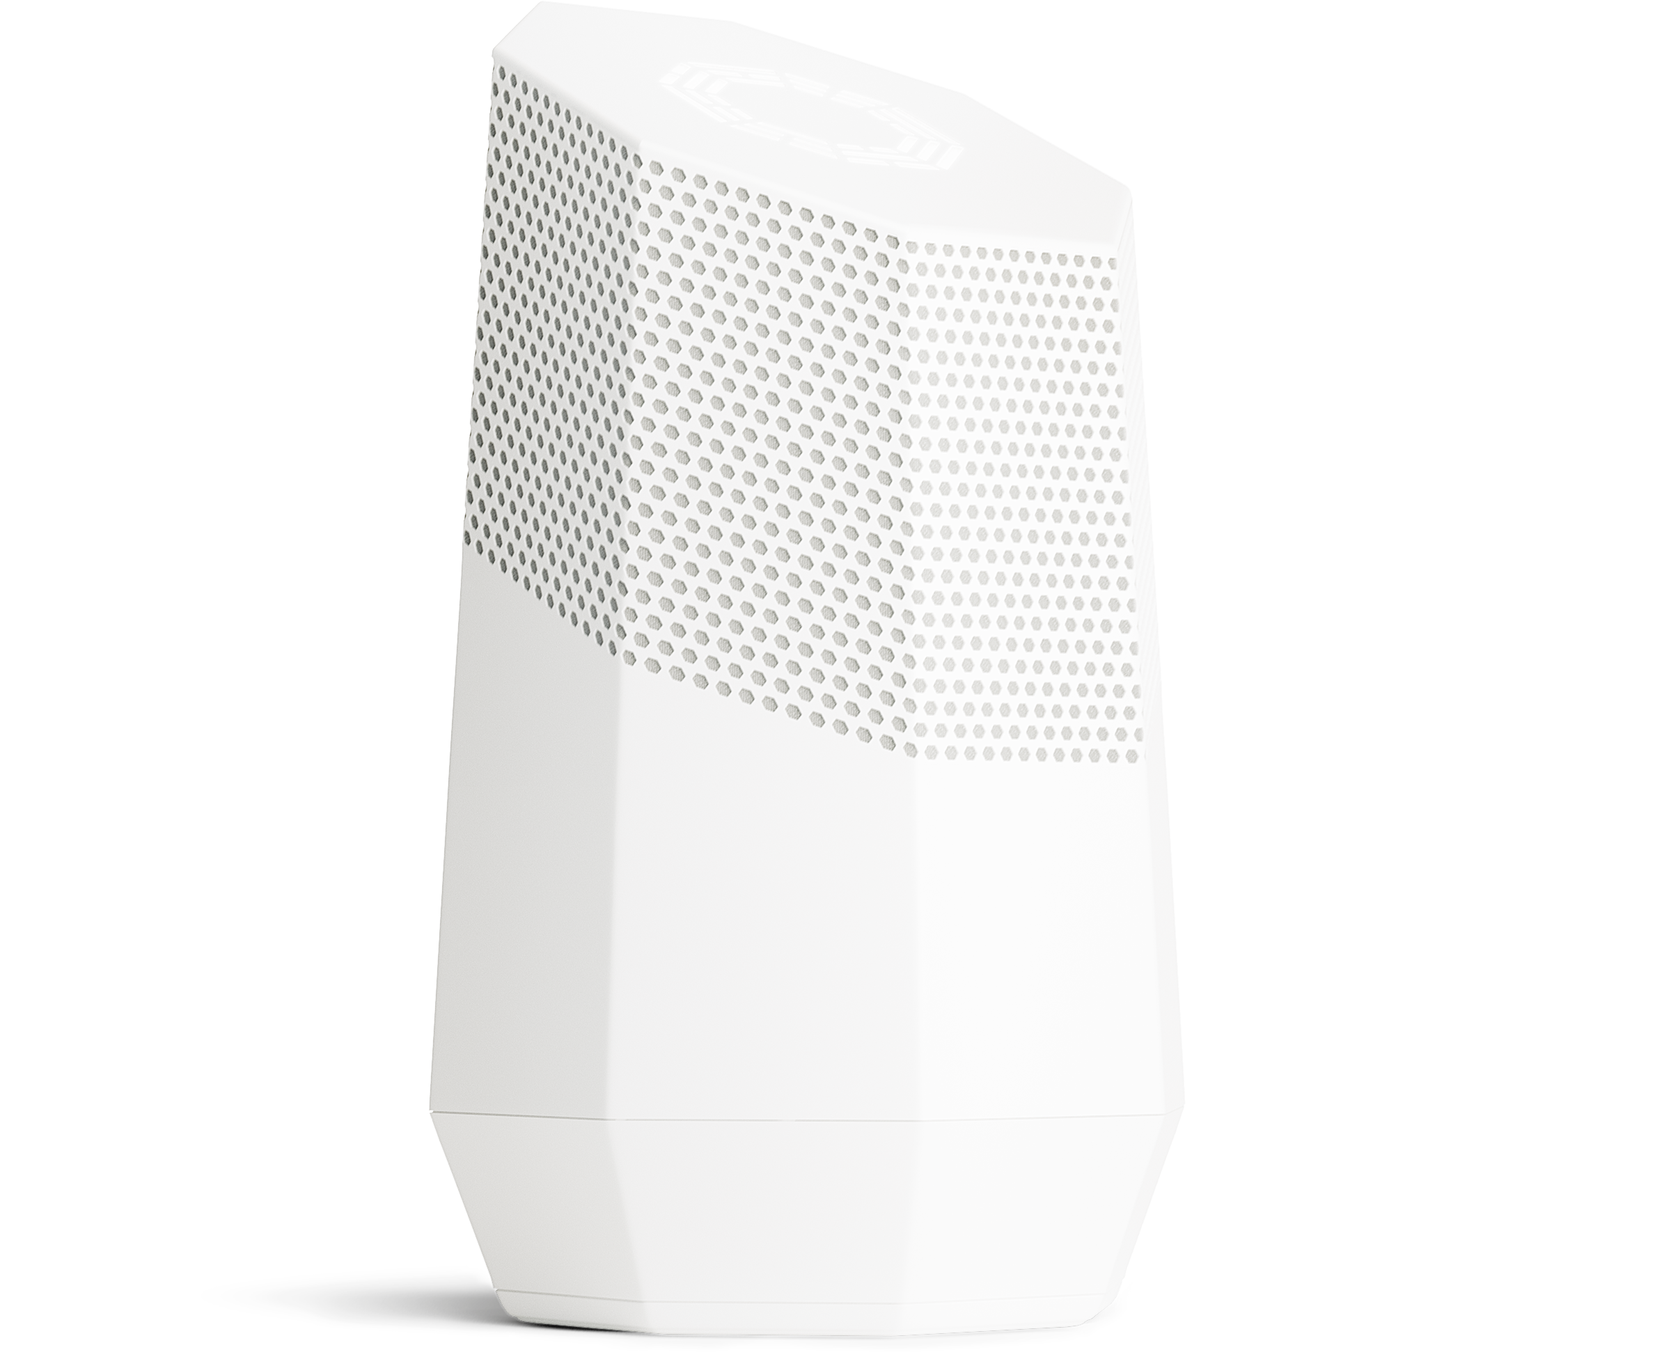
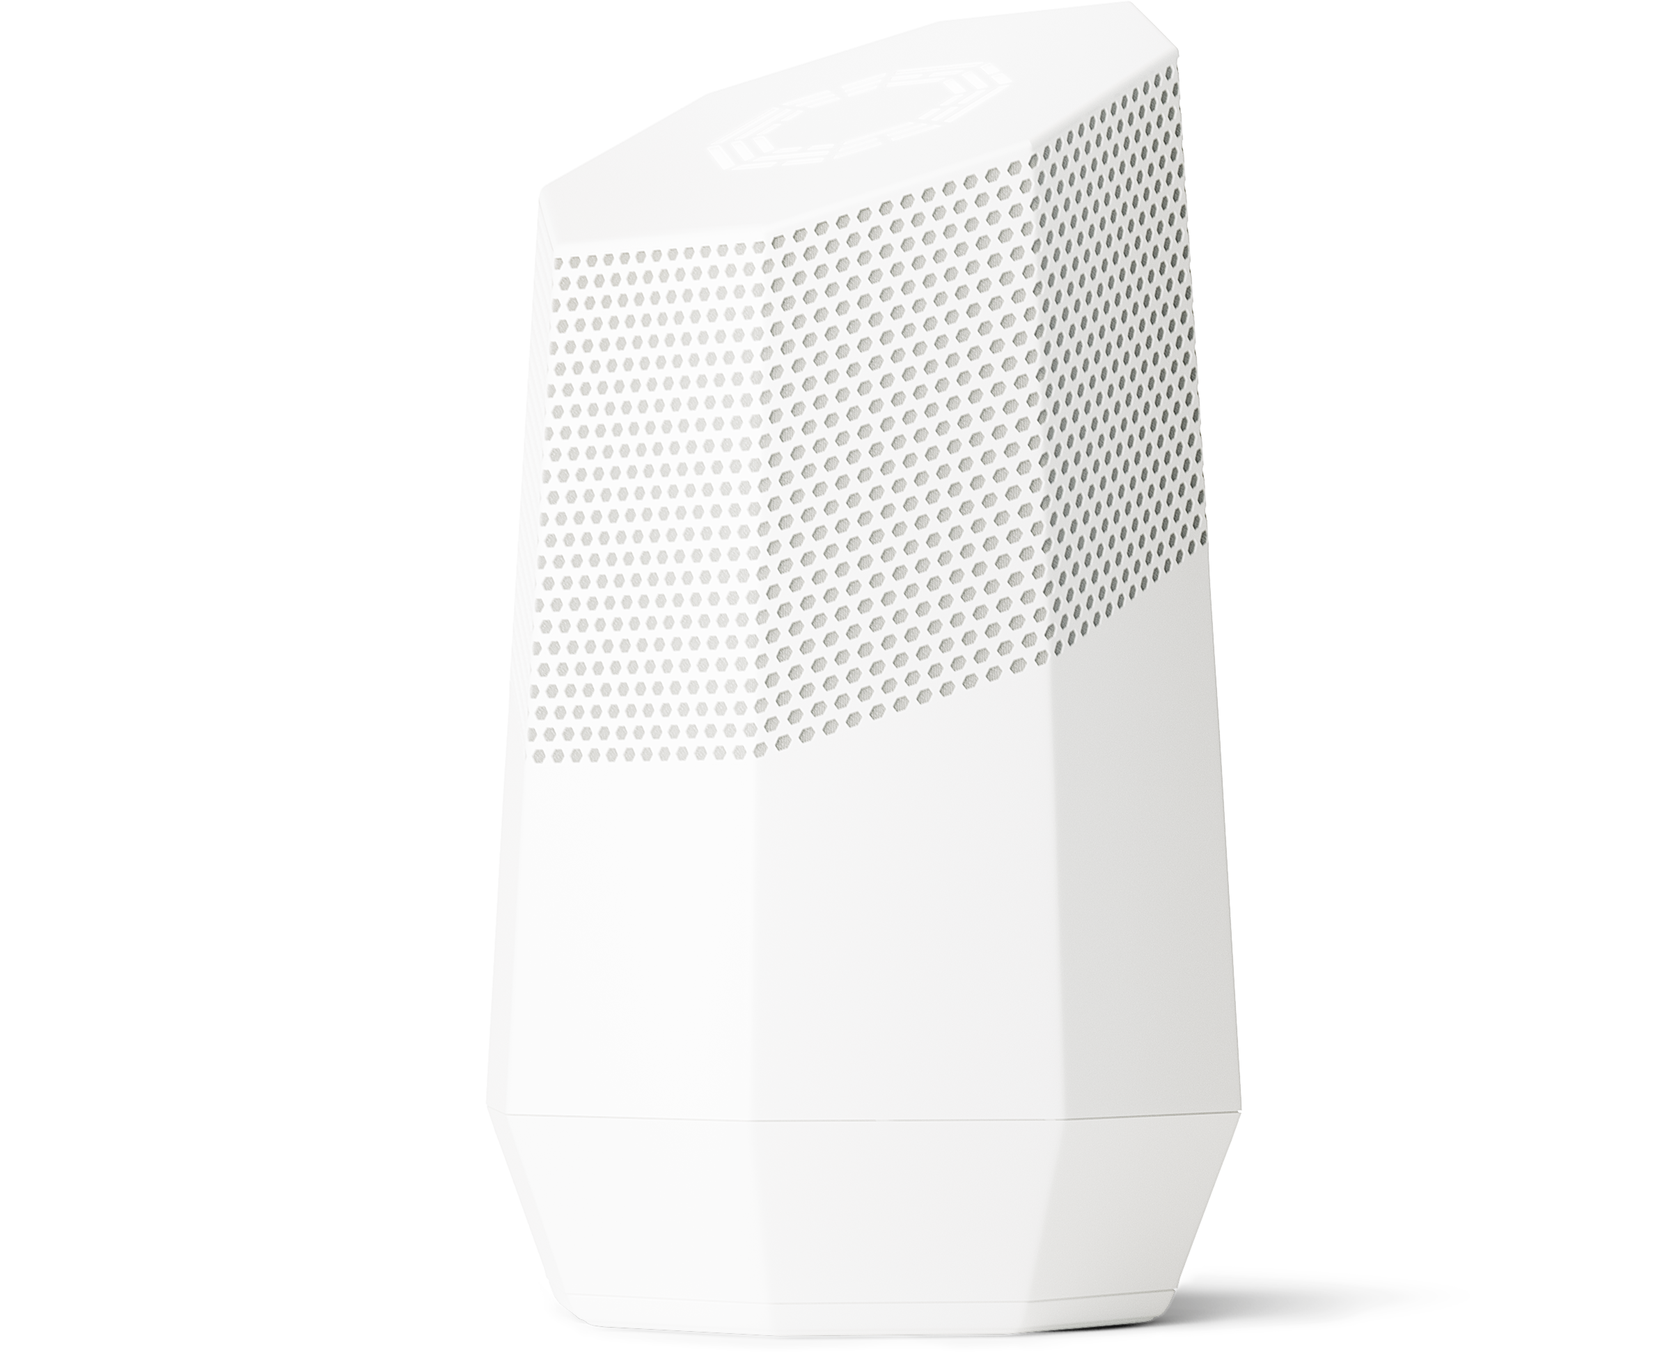
Change picture with carousel

Changed region(s): [[0.2188, 0.0312, 0.7812, 1.0]]

diff --git a/kifoundation/src/components/Device/index.jsx b/kifoundation/src/components/Device/index.jsx
@@ -1,6 +1,7 @@
 // Services
 import React from 'react';
 import PropTypes from 'prop-types';
+import Slider from "react-slick";
 
 // Material
 import Tabs from '@material-ui/core/Tabs';
@@ -19,6 +20,8 @@ import { withStyles } from '@material-ui/core/styles';
 // Images
 import KiDevice from '../../assets/ki_foundation/Black_Front.png';
 import KiDeviceSide from '../../assets/ki_foundation/Black_Side.png';
+import KiDeviceBlackBack from '../../assets/ki_foundation/Black_Back.png';
+import KiDeviceWhiteBack from '../../assets/ki_foundation/White_Back.png';
 import KiDeviceWhiteSide from '../../assets/ki_foundation/device_side_white.png';
 import KiDeviceWhite from '../../assets/ki_foundation/device_front_white.png';
 import DimensionsSvg from './svg/dimensions.svg';
@@ -54,9 +57,9 @@ class Device extends React.Component {
         this.setState({ value });
     }
     selectThisImage = (image) => {
-        document.getElementById('slide-1-wrapper').classList.remove('fadeIn');
+        // document.getElementById('slide-1-wrapper').classList.remove('fadeIn');
         this.setState({imageSelected: image});
-        setTimeout(() => { document.getElementById('slide-1-wrapper').classList.add('fadeIn') }, 0);
+        // setTimeout(() => { document.getElementById('slide-1-wrapper').classList.add('fadeIn') }, 0);
     }
     renderContents = () => {
         const { value } = this.state;
@@ -74,12 +77,12 @@ class Device extends React.Component {
                 <div className="row">
                     <div className="col-md-12 mb-4">
                         <Typography align="justify" variant="subtitle2">
-                            &nbsp;&nbsp;&nbsp;The Ki Foundation has built a home device that utilises a new blockchain-based operating system and an open dApp store, both of which can never be leveraged to monitor, manipulate or monetise its occupants. Ki provides users with access to a vibrant and open ecosystem of applications and services without forcing them to relinquish control of their data.
+                            The Ki Foundation has built a home device that utilises a new blockchain-based operating system and an open dApp store, both of which can never be leveraged to monitor, manipulate or monetise its occupants. Ki provides users with access to a vibrant and open ecosystem of applications and services without forcing them to relinquish control of their data.
                         </Typography>
                     </div>
                     <div className="col-md-12">
                         <Typography align="justify" variant="subtitle2">
-                            &nbsp;&nbsp;&nbsp;Utilising Ki's new Proof of Reputation consensus mechanism and scalable new blockchain, control and governance of the Ki ecosystem and the value arising from it will be shared across all of the network’s participants.
+                            Utilising Ki's new Proof of Reputation consensus mechanism and scalable new blockchain, control and governance of the Ki ecosystem and the value arising from it will be shared across all of the network’s participants.
                         </Typography>
                     </div>
                 </div>
@@ -170,14 +173,25 @@ class Device extends React.Component {
         );
     }
     renderSlider = () => {
+        const settings = {
+            className: "center",
+            infinite: true,
+            centerPadding: "60px",
+            slidesToShow: 3,
+            dots: true,
+            speed: 500
+        };
         const { imageSelected } = this.state;
         const slides = [
             { name: 'Ki Device Side', image: KiDeviceSide },
             { name: 'Ki Device', image: KiDevice},
-            { name: 'Ki Device Side White', image: KiDeviceWhiteSide }
+            { name: 'Ki Device Back', image: KiDeviceBlackBack },
+            { name: 'Ki Device Side White', image: KiDeviceWhiteSide },
+            { name: 'Ki Device White', image: KiDeviceWhite},
+            { name: 'Ki Device Back White', image: KiDeviceWhiteBack }
         ];
         let slidesDOM = slides.map((s, index) => {
-            return <div key={index} onClick={() => this.selectThisImage(s.image)} className="mr-3 cursor-pointer slide-wrapper"><img src={s.image} alt={s.name}/></div>
+            return <div key={index}><img className="cursor-pointer" onClick={() => this.selectThisImage(s.image)} src={s.image} alt={s.name}/></div>
         });
         return (
             <div>
@@ -185,8 +199,10 @@ class Device extends React.Component {
                     <img id="slide-1-wrapper" className="mb-5 animated" height="300" src={imageSelected} alt="Ki Device Main"/>
                 </div>
                 <Divider className="margin-auto" style={{width: '100px', backgroundColor: '#0021f5', height: '2px'}}/>
-                <div className="slide-2 vertical-align">
-                    {slidesDOM}
+                <div className="slide-2">
+                    <Slider {...settings}>
+                        {slidesDOM}
+                    </Slider>
                 </div>
             </div>
         );
@@ -198,13 +214,19 @@ class Device extends React.Component {
             <div className={classes.root}>
                 <div className="container">
                     <div className="row device-wrapper">
-                        <div className="col-md-6" style={{marginTop: '120px'}}>
+                        <div className="d-block d-md-none col-md-6 text-center vertical-align">
+                            <div className="mt-5">
+                                {this.renderSlider()}
+                            </div>
+                        </div>
+                        <div className="col-md-6">
                             <div>
                                 <Typography className={classes.title + ' animated fadeInLeft'} variant="h2">The Ki Device</Typography>
                                 <Typography variant="h5" className={classes.subtitle + ' animated fadeIn'}>A decentralized smart Homepod</Typography>
                                 <div className="mt-3">
                                     <Tabs
                                         value={value}
+                                        centered
                                         onChange={this.handleChange}
                                         classes={{ root: classes.tabsRoot, indicator: classes.tabsIndicator }}
                                         >
@@ -228,7 +250,7 @@ class Device extends React.Component {
                                 <div className="custom-content">{this.renderContents()}</div>
                             </div>
                         </div>
-                        <div className="col-md-6 text-center vertical-align">
+                        <div className="d-none d-md-block col-md-6 text-center vertical-align">
                             <div className="mt-5">
                                 {this.renderSlider()}
                             </div>

diff --git a/kifoundation/src/components/Blockchain/index.jsx b/kifoundation/src/components/Blockchain/index.jsx
@@ -10,8 +10,6 @@ import { withStyles } from '@material-ui/core/styles';
 
 // Images
 import KiDevice from '../../assets/ki_foundation/Black_Front.png';
-import KiDeviceSide from '../../assets/ki_foundation/Black_Side.png';
-import KiDeviceWhiteSide from '../../assets/ki_foundation/device_side_white.png';
 import iconDecentralized from '../../assets/blockchain/icon-decentralized.svg';
 import iconFlash from '../../assets/blockchain/icon-flash.svg';
 import iconReputation from '../../assets/blockchain/icon-reputation.svg';
@@ -64,12 +62,12 @@ class Blockchain extends React.Component {
                 <div className="row">
                     <div className="col-md-12 mb-4">
                         <Typography align="justify" variant="subtitle2">
-                            &nbsp;&nbsp;&nbsp;The Ki Foundation is building a new blockchain that fulfils its objectives of enabling both (1) an open development ecosystem and decentralized marketplace for dApps as well as (2) a new resource sharing paradigm, where, anything with computational power, storage and connectivity can be monetized and leased in real-time with minimal effort from both the resource providers and the users, while maintaining its principles of privacy, security and fairness.
+                            The Ki Foundation is building a new blockchain that fulfils its objectives of enabling both (1) an open development ecosystem and decentralized marketplace for dApps as well as (2) a new resource sharing paradigm, where, anything with computational power, storage and connectivity can be monetized and leased in real-time with minimal effort from both the resource providers and the users, while maintaining its principles of privacy, security and fairness.
                         </Typography>
                     </div>
                     <div className="col-md-12">
                         <Typography align="justify" variant="subtitle2">
-                            &nbsp;&nbsp;&nbsp;The approach of the Ki Foundation’s R&D team will result in a scalable and secure protocol that can deal with thousands of transactions per second using very low computational power but without sacrificing on the organisation’s fairness ethos and commitment to decentralisation.
+                            The approach of the Ki Foundation’s R&D team will result in a scalable and secure protocol that can deal with thousands of transactions per second using very low computational power but without sacrificing on the organisation’s fairness ethos and commitment to decentralisation.
                         </Typography>
                     </div>
                 </div>
@@ -104,28 +102,6 @@ class Blockchain extends React.Component {
             </div>
         );
     }
-    renderSlider = () => {
-        const { imageSelected } = this.state;
-        const slides = [
-            { name: 'Ki Device Side', image: KiDeviceSide },
-            { name: 'Ki Device', image: KiDevice},
-            { name: 'Ki Device Side White', image: KiDeviceWhiteSide }
-        ];
-        let slidesDOM = slides.map((s, index) => {
-            return <div key={index} onClick={() => this.selectThisImage(s.image)} className="mr-3 cursor-pointer slide-wrapper"><img src={s.image} alt={s.name}/></div>
-        });
-        return (
-            <div>
-                <div className="slide-1">
-                    <img id="slide-1-wrapper" className="mb-5 animated" height="300" src={imageSelected} alt="Ki Device Main"/>
-                </div>
-                <Divider className="margin-auto" style={{width: '100px', backgroundColor: '#0021f5', height: '2px'}}/>
-                <div className="slide-2 vertical-align">
-                    {slidesDOM}
-                </div>
-            </div>
-        );
-    }
     render() {
         const { classes } = this.props;
         const { value } = this.state;
@@ -133,13 +109,19 @@ class Blockchain extends React.Component {
             <div className={classes.root}>
                 <div className="container">
                     <div className="row device-wrapper">
-                        <div className="col-md-8" style={{marginTop: '120px'}}>
+                        <div className="d-block d-md-none col-md-4 text-center vertical-align">
+                            <div className="mt-5">
+                                <img src={BlockchainImage} alt="Ki Blockchain" height="350"/>
+                            </div>
+                        </div>
+                        <div className="col-md-8">
                             <div>
                                 <Typography className={classes.title + ' animated fadeInLeft'} variant="h2">The Ki Blockchain</Typography>
                                 <Typography variant="h5" className={classes.subtitle + ' animated fadeIn'}>A new scalable blockchain technology</Typography>
                                 <div className="mt-3">
                                     <Tabs
                                         value={value}
+                                        centered
                                         onChange={this.handleChange}
                                         classes={{ root: classes.tabsRoot, indicator: classes.tabsIndicator }}
                                         >
@@ -157,14 +139,14 @@ class Blockchain extends React.Component {
                                             disableRipple
                                             disabled={true}
                                             classes={{ root: classes.tabRoot, selected: classes.tabSelected }}
-                                            label="Mizuki Devnet"
+                                            label="Mizuki Devnet (Soon)"
                                         />
                                     </Tabs>
                                 </div>
                                 <div className="custom-content">{this.renderContents()}</div>
                             </div>
                         </div>
-                        <div className="col-md-4 text-center vertical-align">
+                        <div className="d-none d-md-block col-md-4 text-center vertical-align">
                             <div className="mt-5">
                                 <img src={BlockchainImage} alt="Ki Blockchain" height="350"/>
                             </div>

diff --git a/kifoundation/src/components/Home/Header/index.jsx b/kifoundation/src/components/Home/Header/index.jsx
@@ -12,7 +12,7 @@ import ArrowRightAlt from '@material-ui/icons/ArrowRightAlt'
 import { withStyles } from '@material-ui/core/styles';
 
 // Images
-// import KiDevice from '../../../assets/home/markets_illustration_h.gif';
+import AnimatedOctagon from '../../../assets/ki_foundation/animated_octagon.png';
 import KiDevice from '../../../assets/ki_foundation/domo_device_side.png';
 import KiBlockchain from '../../../assets/home/blockchain.png';
 import KiWallet from '../../../assets/home/launch_illustration_h.gif';
@@ -39,7 +39,13 @@ const styles = {
         },
         '&:hover .card-image': {
             top: -40
+        },
+        '&:hover .header-kd-item': {
+            top: -70
         }
+    },
+    headerKDItem: {
+        top: -50
     },
     cardImageWrapper: {
         height: 140,
@@ -76,7 +82,7 @@ const styles = {
         whiteSpace: "nowrap"
     },
     headerSubtitle: {
-        color: "#3b426c",
+        color: "#3b426c"
     },
     bullet: {
         display: 'inline-block',
@@ -140,8 +146,8 @@ class Header extends React.Component {
     renderCards = () => {
         const { classes } = this.props;
         const cardsData = [
-            { name: "Ki Device", image: KiDevice, href: "/device" },
-            { name: "Ki Blockchain", image: KiBlockchain, href: "blockchain" },
+            { name: "Ki Device", image: AnimatedOctagon, href: "/device", height: '200', customClassname: classes.headerKDItem + ' header-kd-item' },
+            { name: "Ki Blockchain", image: KiBlockchain, href: "blockchain", height: '150', customClassname: '' },
             // { name: "Ki Wallet", image: KiWallet, action: "test" },
             // { name: "Ki Ecosystem", image: KiEcosystem, action: "test" }            
         ];
@@ -152,7 +158,7 @@ class Header extends React.Component {
                         <Card key={key} className={classes.card}>
                             <CardContent>
                                 <div className={classes.cardImageWrapper}>
-                                    <img className="card-image" src={cd.image} alt={cd.image} />
+                                    <img height={cd.height} className={cd.customClassname + ' card-image'} src={cd.image} alt={cd.image} />
                                 </div>
                                 <Typography className={classes.cardTitle} variant="h6"> {cd.name} </Typography>
                                 <button type="button" className={classes.cardButton} size="small">Learn More <ArrowRightAlt className={classes.arrowRight}/></button>

diff --git a/kifoundation/src/components/Navbar/index.jsx b/kifoundation/src/components/Navbar/index.jsx
@@ -177,16 +177,16 @@ class Navbar extends React.Component {
             </AppBar>
             <div className={classes.listWrapper}>
               <List component="nav">
+                <ListItemLink button href="/">
+                  <ListItemText align="center" primary="Home" />
+                </ListItemLink>
+                <Divider/>
                 <ListItemLink button href="/team">
                   <ListItemText align="center" primary="Team" />
                 </ListItemLink>
                 <Divider/>
                 <ListItemLink button href="/contact">
                   <ListItemText align="center" primary="Contact Us" />
-                </ListItemLink>
-                <Divider/>
-                <ListItemLink button href="https://domo.ki" target="_blank">
-                  <ListItemText align="center" primary="Ki Device" />
                 </ListItemLink>
               </List>
             </div>
@@ -204,6 +204,7 @@ class Navbar extends React.Component {
                     <div className={classes.growRight}>
                       {/* <Link className={classes.link} to="/whitepaper"><Button className={classes.button}>Whitepaper</Button></Link> */}
                       {/* <NavLink to="/device"><span className={classes.button}>Device</span></NavLink> */}
+                      <NavLink to="/"><span className={classes.button}>Home</span></NavLink>
                       <NavLink to="/team"><span className={classes.button}>Team</span></NavLink>
                       <NavLink to="/contact"><span className={classes.button}>Contact Us</span></NavLink>
                     </div>

diff --git a/kifoundation/src/components/Device/style.css b/kifoundation/src/components/Device/style.css
@@ -9,6 +9,7 @@
 
 .device-wrapper{
     height: 100vh;
+    margin-top: 120px;
 }
 
 @media (max-height: 610px) {
@@ -54,6 +55,7 @@
     }
     .device-wrapper{
         height: auto;
+        margin-top: 70px;
     }
 }
 
@@ -161,17 +163,21 @@
 #capabilities {
     margin-bottom: 5rem;
 }
+
+.slide-2 {
+    margin-bottom: 5rem;
+}
   
 .slide-2 img {
-    height: 80px;
+    /* height: 80px;
     margin: 3rem auto;
     padding: 10px 20px;
     border: 1px solid rgba(0,0,0,0.1);
-    border-radius: 2px;
+    border-radius: 2px; */
 }
 
 .slide-1 img {
-    margin: 0 auto;
+    /* margin: 0 auto; */
 }
 
 .margin-auto {
@@ -179,5 +185,5 @@
 }
 
 .slide-wrapper:last-child {
-    margin-right: 0 !important;
+    /* margin-right: 0 !important; */
 }

diff --git a/kifoundation/src/components/Blockchain/materialStyle.js b/kifoundation/src/components/Blockchain/materialStyle.js
@@ -87,7 +87,7 @@ const styles = theme => ({
         textTransform: 'initial',
         minWidth: 72,
         fontWeight: theme.typography.fontWeightRegular,
-        marginRight: theme.spacing.unit * 4,
+        width: '33.33%',
         fontFamily: [
           '-apple-system',
           'BlinkMacSystemFont',

diff --git a/kifoundation/src/components/Device/materialStyle.js b/kifoundation/src/components/Device/materialStyle.js
@@ -87,7 +87,7 @@ const styles = theme => ({
         textTransform: 'initial',
         minWidth: 72,
         fontWeight: theme.typography.fontWeightRegular,
-        marginRight: theme.spacing.unit * 4,
+        width: '33.33%',
         fontFamily: [
           '-apple-system',
           'BlinkMacSystemFont',

diff --git a/kifoundation/src/components/Blockchain/style.css b/kifoundation/src/components/Blockchain/style.css
@@ -166,7 +166,8 @@
     height: 80px;
     margin: 3rem auto;
     padding: 10px 20px;
-    border: 1px solid rgba(0,0,0,0.1);
+    /* border: 1px solid rgba(0,0,0,0.1); */
+    margin-bottom: 1rem;
     border-radius: 2px;
 }
 

diff --git a/kifoundation/src/components/Home/Header/style.css b/kifoundation/src/components/Home/Header/style.css
@@ -1,5 +1,4 @@
 .card-image {
-    height: 150px;
     display: block;
     position: absolute;
     top: -25px;

diff --git a/kifoundation/src/theme.css b/kifoundation/src/theme.css
@@ -1,3 +1,7 @@
+body {
+    font-family: Manrope;
+}
+
 .primary-text-color {
     color: #3b426c !important;
 }
